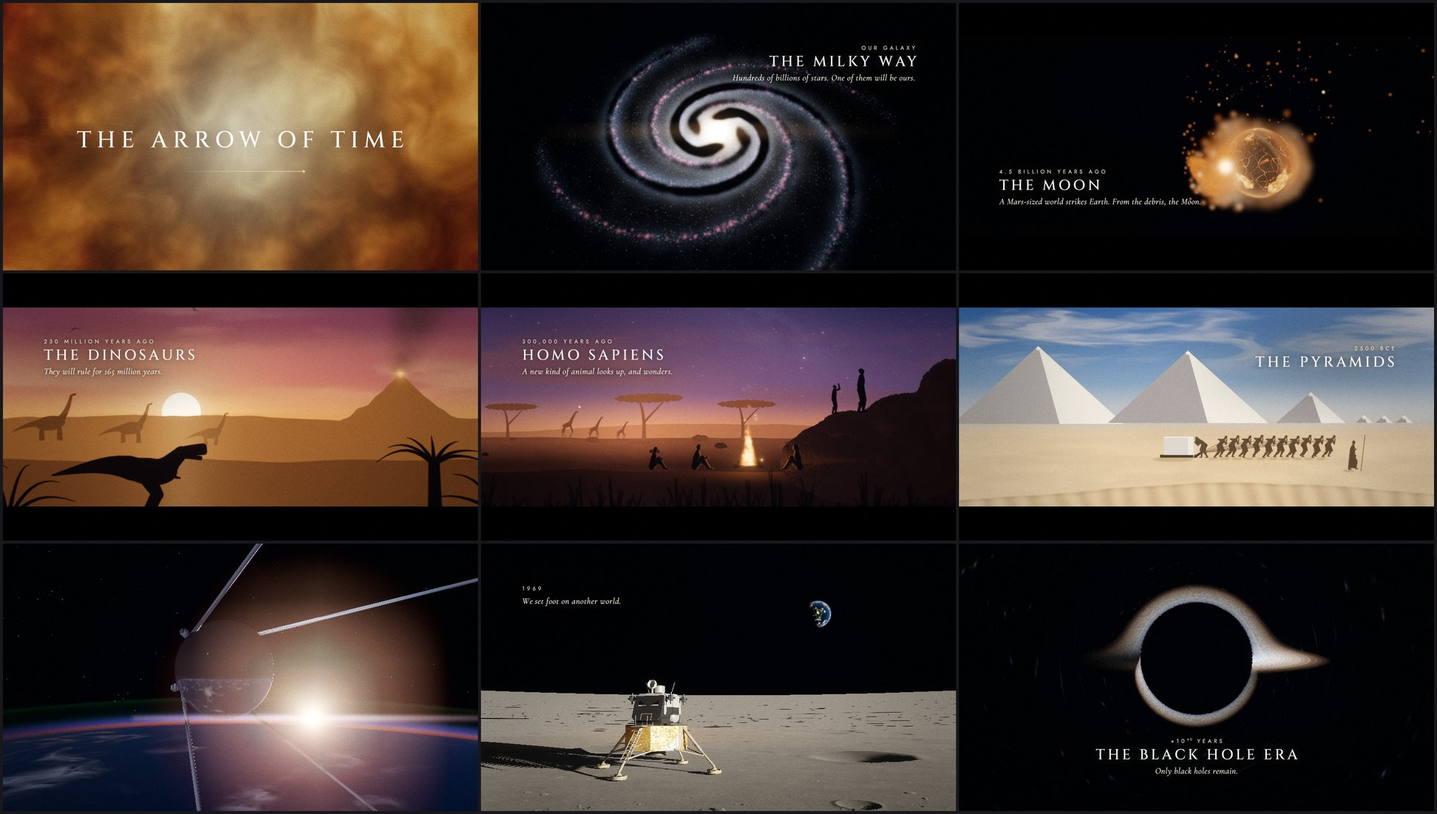
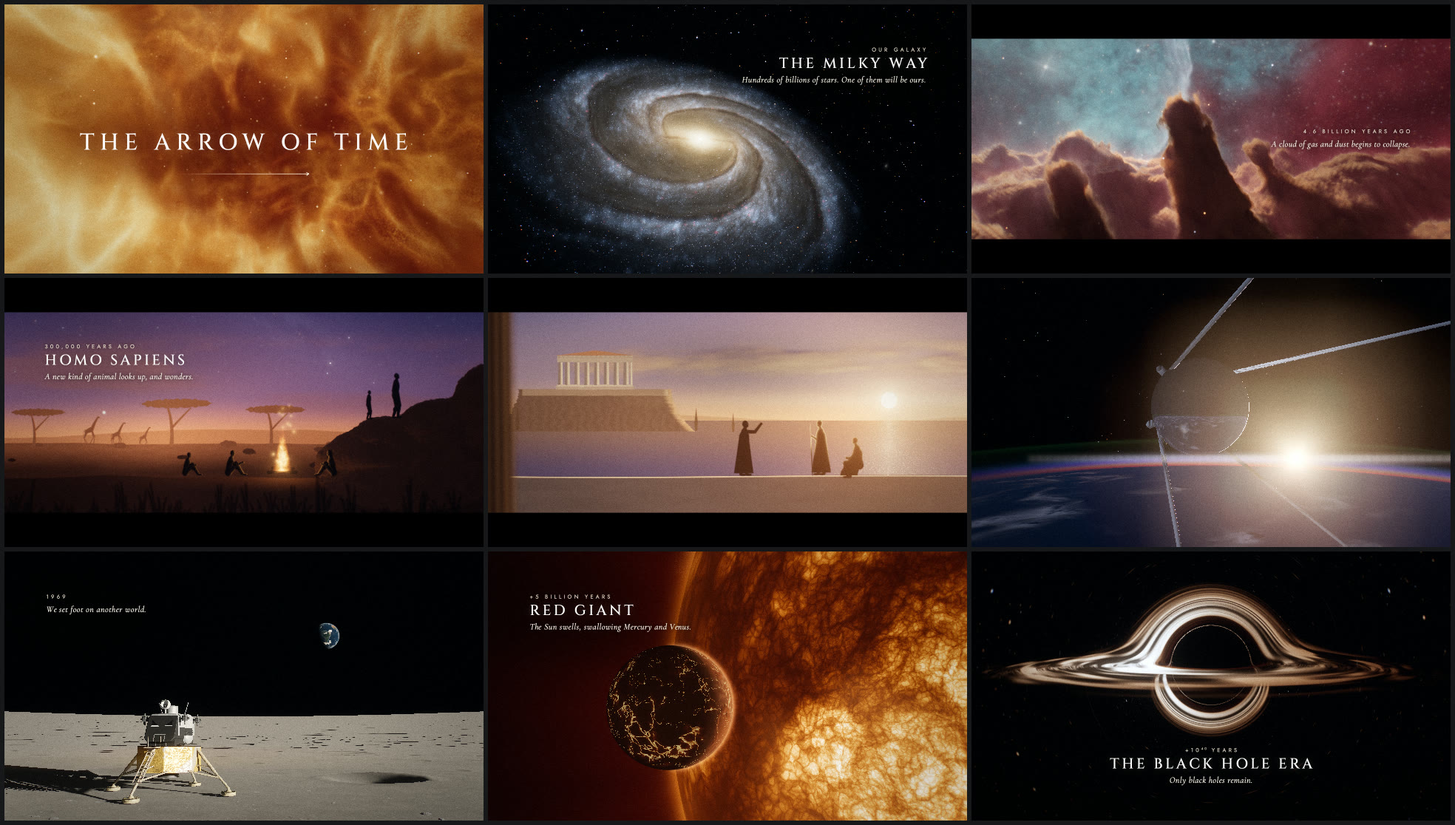
Docs for the second pass: making-of, changelog, guides, new README frames
The making-of describes every reworked scene; the changelog's Unreleased
section lists the pass; the engine and film guides cover halation, grain
size, the volumetric Galaxy, noiseVolume, Streaks and per-act looks;
AGENTS.md gains the new conventions and six pitfalls; docs/frames.jpg is a
fresh montage from the new picture.

diff --git a/docs/making-of.md b/docs/making-of.md
@@ -24,8 +24,8 @@ timeline.json ──► project.ts ──► shots (GLSL, sprites, ray marching)
 ```
 
 Each shot is a span of time and a function that draws linear, HDR light into the frame; shots
-overlap to dissolve. The post chain adds bloom, anamorphic streaks, light shafts, tonemapping,
-grading, grain and the letterbox, all animated over the film by `project.ts`. Captions are drawn
+overlap to dissolve. The post chain adds bloom, halation, anamorphic streaks, light shafts,
+tonemapping, grading, film grain and the letterbox, all animated over the film by `project.ts`. Captions are drawn
 last, from a sub-pixel glyph cache, in each shot's negative space. The score reads the same
 timeline, so a hit in the picture and in the music is the same number. The engine behind all this
 is described in [The engine](engine.md).
@@ -37,14 +37,42 @@ skies lit by one clear source. The space race is photographic 3D, built for scal
 
 ## Scene by scene
 
-- **Big Bang, inflation, first light**: domain-warped fbm plasma with a fire colour ramp, a
-  log-scale infinite zoom with radially streaking quantum fluctuations, a bokeh particle field,
-  and a Planck-style CMB sphere with photons "breaking free".
-- **Cosmic web**: a 112³ periodic Voronoi density volume (filaments where three cells meet),
-  ray-marched at half resolution, with sprite stars and galaxies placed on its nodes.
-- **Milky Way**: about 170k sprites (sparkle stars, a smooth glow layer, HII knots, a bulge)
-  following a barred four-arm logarithmic spiral with 19° pitch, with absorbing dust lanes and
-  differential rotation.
+- **Prologue** (`film/shots/universe.ts`): dust too faint to see, 170,000 motes of it, lit by a
+  shell of light that each tick of the clock sends out through it, so the dark glitters in
+  expanding rings round the three opening lines. Through the riser the cloud collapses as a
+  uniform sphere does, every mote arriving at once, and a lone point holds for the hush before
+  the bang.
+- **Big Bang, inflation, the first elements, first light**: one continuous medium, a ray-marched
+  flight through a baked, tiling noise volume (`film/shaders/universe-plasma.glsl`), so the
+  dissolves between the four shots are invisible. The bang is seen from inside: volumetric fire
+  rushing past at 40 units a second, slowing as the expansion does, with embers drawn as the
+  streaks they cover in each exposure. In inflation the same flight runs away exponentially and
+  stretches the plasma into streams. Protons and neutrons are glowing spheres under a shallow
+  lens; fours fall together into helium with a flash. At first light the fog brightens, thins to
+  nothing, and leaves a finely mottled afterglow that reddens into the dark.
+- **Cosmic web and the first galaxies** (`film/shots/dawn.ts`): a 112³ periodic Voronoi density
+  volume (filaments where three cells meet), ray-marched at half resolution, with sprite stars and
+  small galaxies (spheroids, clumpy irregulars, soft disks) placed on its nodes. The flight
+  through it ends at one galaxy, drawn by the same volumetric renderer as the Milky Way: it first
+  shows as a blue, clumpy disk and grows its bulge, old stars and dust as the camera nears.
+- **Milky Way** (`engine/components/galaxy.ts`): a barred spiral rendered as a volume. Its
+  face-on structure (old stars, young stars, dust, H-II regions) is baked once into a map and
+  ray-marched as a thin disk, so dust lanes darken only what lies behind them, with pink H-II
+  knots along the arms' inner edges, an analytic bulge and nucleus, and 150,000 resolved stars on
+  top, each dimmed by the dust in front of it. One camera carries across the dissolve from the
+  cosmic web: it lands low over the disk as the theme arrives, then rises to a three-quarter
+  view as the frame opens.
+- **The solar nebula** (`film/shaders/nebula-cloud.glsl`): the cloud is a volume, a distance
+  field of dust displaced by tiling 3D noise and marched with shadows towards a star cluster
+  behind it, so the dust facing us is dark and its edges glow, as in the Eagle and Carina
+  nebulae. Gas is teal near the stars and rose further out. A nearby star flares into a
+  supernova; its blast wave is a shell that lights the gas it crosses and lags in dense dust,
+  and the head of the tallest pillar contracts around an ember.
+- **The Sun is born** (`film/shaders/sun-disk.glsl`): the ember becomes the protostar at the
+  centre of a disk of dust in hydrostatic balance, flared, with a puffed inner rim. A table of
+  optical depth from the star lets the rim and each ringlet shade what lies behind. Light sweeps
+  outward at ignition; gaps deepen as worlds sweep them, each trailing a spiral wake, under a
+  bipolar jet.
 - **The Moon-forming impact** (`film/shots/moon.ts`): a real smoothed-particle hydrodynamics
   simulation, not an animation. Theia (0.13 Earth masses) strikes the proto-Earth at 45° and the
   mutual escape speed, run with SWIFT on 61,139 particles for the first day after contact
@@ -57,17 +85,33 @@ skies lit by one clear source. The space race is photographic 3D, built for scal
   later, and a long arm breaks into clumps and a disk. The same camera carries on through a
   dissolve to years later, the molten Earth and the newborn Moon, which recedes as the oceans
   form.
-- **Planets**: one shader for every era. Voronoi lava cracks, procedural oceans and ice lines,
-  real present-day Earth from Natural Earth maps (bathymetry shelves, deserts, city lights from
-  populated places and roads), clouds, atmospheric rim and twilight, impact dust and fires,
-  Mars terraforming, the Moon.
-- **Life and humanity**: binary fission of a rod-shaped microbe (textures in material
-  coordinates that each daughter carries away); animated signed-distance silhouettes
-  (Anomalocaris, trilobites, jellyfish, Tiktaalik, sauropods, T. rex, pterosaurs, mammals,
-  people) over painted-light skies; underwater god rays and caustics; the first people at dusk
-  on the savanna (`film/shaders/humans.glsl`), a band round a fire on a granite kopje while giraffes
-  cross under the acacias and a meteor, drawn as the streak it covers in each exposure so it
-  never strobes, crosses the first stars; a bump-mapped cave wall lit by a moving torch.
+- **Planets** (`engine/components/planet.ts`): one shader for every era. The magma ocean's
+  rifts follow the zero lines of smooth noise fields, so they meander, branch and gape into pools
+  like fractures rather than forming a net of cells; the Snowball's ice carries the same kind of
+  long curving leads, as Europa does. Clouds are weather: the noise they are read from is wound
+  round storm centres in the mid-latitudes into spiral bands and fronts, thinned by climate zones
+  (a cloudy equator, clear subtropics), eroded into cells at their edges, lit from the Sun's side
+  and made to shade the ground beyond, with shadows that stretch towards the terminator. The air
+  is a thin scattering shell in closed form: its optical depth per colour tints the disc by day,
+  deepens to a bright limb, and is what the low Sun loses, so blue air gives orange terminators
+  and Mars's dust gives blue ones. Water takes a wide, wind-roughened glint that climbs with the
+  Fresnel reflection towards the limb; land takes relief shading from its height field. Under
+  that, real present-day Earth from Natural Earth maps (bathymetry shelves, deserts, city lights
+  from populated places and roads), impact dust and fires, a blast wave that tears the cloud
+  deck away, Mars and its terraforming, the Moon.
+- **Life and humanity**: a field of black smokers on the floor of the first ocean
+  (`film/shaders/vent.glsl`), craggy spires pouring smoke that the glow of their own mouths lights
+  from below; binary fission of a rod-shaped microbe (textures in material coordinates that each
+  daughter carries away); animated signed-distance silhouettes (Anomalocaris, trilobites,
+  jellyfish, Tiktaalik, sauropods, T. rex, pterosaurs, mammals, people) over painted-light skies;
+  underwater god rays and caustics; the first clear dawn after the impact winter
+  (`film/shaders/mammals.glsl`), the Sun coming up through the mist of a dead forest with a new
+  one growing under it, birds crossing the light, and a small mammal watching from a fallen trunk
+  with the Sun rimming its fur; the first people at dusk on the savanna
+  (`film/shaders/humans.glsl`), a band round a fire on a granite kopje while giraffes cross under
+  the acacias and a meteor, drawn as the streak it covers in each exposure so it never strobes,
+  crosses the first stars; a bump-mapped cave wall lit by a moving torch. Today's Earth at night
+  carries its air routes as hairline great-circle threads with aircraft running along them.
 - **Civilization** (`film/shots/civilization.ts`, `film/shaders/civ-*.glsl`): twelve thousand years
   painted as a single day in the film's silhouette style, one tracking shot through ten
   tableaux, each with its own parallax layers and figures posed from joints (the engine's
@@ -90,7 +134,9 @@ skies lit by one clear source. The space race is photographic 3D, built for scal
   `Atmosphere`, its fire glowing inside the cloud), climbs across the face of the gibbous Moon on a
   long lens (the Moon really was ten days old that night), and at 45 km, in slow motion, its four
   boosters peel away in the "Korolev cross" over the curve of the Earth. In orbit over the night
-  side (the real maps, moonlit cloud, the thin green airglow over the limb) the fairing splits,
+  side (the real maps, moonlit cloud, the thin green airglow over the limb) the fairing splits
+  (the stage and fairing are painted sheet metal in rings and gores, with rivet rows, soot streaks
+  and frost where the oxygen tank chills the skin),
   Sputnik springs off with its antennas swinging out, and the camera eases round behind it in one
   slow arc as the Sun breaks over the limb through a dawn arc of red and blue that comes out of
   single scattering; through the glare the film dissolves to the other side, where the polished
@@ -103,12 +149,32 @@ skies lit by one clear source. The space race is photographic 3D, built for scal
   radio (NASA's recording of the air-to-ground loop, Houston's Quindar tone and all); then, as a
   piano takes up the theme, the camera drifts round and looks up to the real Earth in the black sky,
   gibbous as it was that day, and closes in on it as it dissolves into the Earth of today.
-- **The far future**: a boiling red giant engulfing the inner planets, a ray-marched ring
-  nebula, a restricted N-body galaxy merger (36k test particles, two cores with dynamical
-  friction), and a Schwarzschild lensing ray tracer for the black hole and its accretion disk.
-- **The end**: the last stars go out one by one, the black holes evaporate in a final flash, and
-  an epilogue over the stars comes back to the beginning: "That moment is now." The closing credits
-  follow in silence.
+- **The far future** (`film/shots/future.ts`): a watch-face dial whose hand rebounds on each
+  tick; the Big Dipper moving on its Hipparcos proper motions over today's dotted shape, while
+  16,000 field stars trail the last third of their journey; the oceans boiling away. The red
+  giant (`film/shaders/giant.glsl`) is traced in AU as granules within granules, from a handful
+  of giant convection cells down to granulation only the close view resolves, with strong,
+  reddening limb darkening; its atmosphere is integrated along each ray with absorption, so
+  plumes glow at the limb and stay faint against the disc. Mercury and Venus are swallowed when
+  the surface reaches their orbits, and the Earth is left a black disc veined with the glow of
+  its melting crust, ringed by the last of its air. The planetary nebula
+  (`film/shaders/pneb.glsl`) is a volume modelled on the Ring and the Helix, coloured by
+  ionisation (He II blue, O III green, H-alpha red), with cometary knots and thin older shells
+  traced analytically, brightest where the ray grazes them; the white dwarf is a sub-pixel point
+  with a diffraction cross.
+- **The end** (`film/shots/end.ts`): the Milky Way and Andromeda as two disks of 74,000 test
+  particles falling together around softened cores on a decaying orbit, both spinning with the
+  orbit, which throws the tidal tails, and a starburst where the cores meet. The last stars are
+  red and white dwarf embers that die on the score's bells. The black hole
+  (`film/shaders/blackhole-trace.glsl`) is a Schwarzschild geodesic tracer: every ray is a null
+  geodesic, integrated with RK4 in its own orbital plane (the Binet equation) with exact disk
+  crossings, so the far side of the disk arches over the shadow and its underside shows below,
+  inside a photon ring; the disk's light is shifted by its orbital speed and the hole's gravity.
+  The disk drains and cools, the hole shrinks as it evaporates while its Hawking glow runs from
+  red to blue-white, and it ends in a point and an expanding shell of light whose photons thin to
+  black. The epilogue comes back to the film's "Now", modelled on Voyager 1's 1990 frame: a fan
+  of sunlight scattered in the camera, and in its brightest ray a pale blue dot about a pixel
+  wide. "That moment is now." The closing credits follow in silence.
 
 ## Science notes
 

diff --git a/AGENTS.md b/AGENTS.md
@@ -7,8 +7,9 @@ that look for that name.)
 
 ## Layout
 
-- `film/`: the film. `timeline.json` (script, captions, cues) + `project.ts` + `shots/` +
-  `shaders/` + `text.ts` (captions) + `score.py`.
+- `film/`: the film. `timeline.json` (script, captions, cues) + `project.ts` + `shots/` (one file
+  per act: `universe`, `dawn`, `sun`, `moon`, `life`, `human`, `civilization`, `ascent`,
+  `sputnik`, `apollo`, `future`, `end`) + `shaders/` + `text.ts` (captions) + `score.py`.
 - `engine/`: the film engine (TypeScript, browser), kept general. Public API: `@engine`
   (`engine/index.ts`); the runtime loads `film/project.ts`.
 - `audio/studio/`: the Python synthesizer and mastering the score is written with (`audio/README.md`).
@@ -81,10 +82,16 @@ that look for that name.)
   over a `Planet` Earth drawn first (premultiplied alpha).
 - **Components** (`engine/components/`): `Planet` + `loadEarth` render a planet from any era
   (molten, ocean, snowball, real present-day Earth, city lights, Mars, the Moon; every knob is
-  documented on `PlanetParams`; `opacity` fades one out). Colliding or overlapping planets need `depthTest: true`;
+  documented on `PlanetParams`; `opacity` fades one out). Its clouds are weather (noise wound
+  round storm centres, climate zones, shadows on the ground), and its air is a scattering shell:
+  `atmoColor * atmo` is the optical depth per colour, which tints the day side, brightens the
+  limb and sets the colour of the terminator (blue air gives orange sunsets). `shock` is a blast
+  wave through the cloud deck; `relief` shades land from its height field. Colliding or overlapping planets need `depthTest: true`;
   `impacts` scars scale with the length of their vector (1 = crater, ~10 = planet-scale), and
-  `planetLocal()` converts a world direction for them. `Galaxy` (or raw `galaxyData`) is a
-  rotating sprite spiral. `Atmosphere` (with `#include <atmosphere>`) is a physically based sky
+  `planetLocal()` converts a world direction for them. `Galaxy` is a barred spiral rendered as a
+  volume: a face-on map baked once and ray-marched as a thin disk with reddening dust, an
+  analytic bulge, and star sprites from the same map. `noiseVolume` bakes a tiling 3D noise
+  texture for ray-marched volumes (one fetch per step instead of several noise octaves). `Atmosphere` (with `#include <atmosphere>`) is a physically based sky
   and limb from single scattering: `...atmo.uniforms(c)` bakes its transmittance table on first
   use; `atmoSegment` integrates a stretch of ray (composite the air in front of a cloud layer,
   then behind it), `atmoLight` gives sunlight's colour at a point (red near the horizon, zero in
@@ -107,6 +114,11 @@ that look for that name.)
   `{ sky: true }`. The `animate`/`shade` GLSL hooks run per sprite and per fragment.
 - **Uniforms** are typed by reflection (`Program.set`). Arrays: pass flat JS arrays. Unknown
   names are ignored silently, so a misspelt uniform just does nothing.
+- **Looks per act.** `project.ts` holds the film's look (grade, grain, halation, letterbox,
+  flashes, shake). A shot file that needs its own bloom, streaks, exposure or light shafts for
+  its beats exports a function (`universeLook`, `dawnLook`, `sunLook`, `mammalsLook`,
+  `futureLook`, `endLook`) that returns overrides there and `{}` elsewhere; `project.ts` merges
+  them last.
 - **CI** (`.github/workflows/ci.yml`) typechecks everything, compiles the Python, synthesizes
   the whole score and checks its hits and cuts against the timeline (`audio/analyze.py`). Keep
   `npm run typecheck` clean, and when a cue moves, keep the onsets CI checks in step.
@@ -170,6 +182,19 @@ that look for that name.)
   slopes; derive them from a smooth measure over a wide range.
 - Chromatic aberration fringes thousands of tiny bright lights red and blue (city lights read
   pink): keep `aberration` low in those shots.
+- Cracks drawn along the edges of a cell (Voronoi) pattern read as a net of polygons, a football.
+  Draw fractures, lava rifts and leads in ice along the zero lines of smooth noise fields
+  (`abs(gfbm(p))` near 0): they meander, branch, and widen into pools where the field is flat.
+- Cross-fading two air or haze colours (an orange smog into a blue sky) passes through grey. Thin
+  the first out before the second builds.
+- A noise field wound round a centre (a cyclone) rings like a target at the eye if it is wound
+  tighter than the noise can show: cap the turn at the centre.
+- Light shafts (`rays`) fed by a large bright sky wash the whole frame out. Raise
+  `raysThreshold` until only the sun's disc feeds them.
+- A silhouette made from one profile mirrored about its axis (a chimney, a trunk) reads as turned
+  on a lathe. Give each flank its own noise.
+- A glow drawn as a bright point with a halo on top of a spire reads as a candle flame. Lay an
+  ember across the lip instead and put the light into the smoke above it.
 - Soft shadows of curved surfaces (a rocket's tank, a fairing) come out terraced with the
   simple estimate `min(k * h / t)`; use the closest approach between successive steps (the
   improved soft shadow in `orbit.glsl` and `moonlanding.glsl`).
@@ -233,8 +258,9 @@ over the image, letterbox framing, and transitions between shots.
 
 ## Rendering
 
-- `npm run render -- --preset draft`: half resolution, no motion blur (about 16 min for the 6:12
-  film at 720p with motion blur on a Mac's GPU; hours on a 4-core CPU).
+- `npm run render -- --preset draft`: half resolution, no motion blur unless `--mb 1` (the 6:12
+  film at 540p with motion blur and `--workers 2` takes about 7 min on a Mac's GPU, 19 ms of GPU
+  time per frame; hours on a 4-core CPU).
 - `npm run render`: final 1080p, x264 CRF 17 `slow`, Rec.709, AAC 320k. Outputs
   `out/renders/the-arrow-of-time-final-<stamp>.mp4` and `...-final-latest.mp4`. The v1.0 master
   (6:12) took 31 min with `--workers 2` on a Mac's GPU (`MOVIES_BROWSER=chrome`) and is 1.6 GB,

diff --git a/CHANGELOG.md b/CHANGELOG.md
@@ -8,12 +8,57 @@ here becomes the release notes. The working cuts before it (v0.1 to v0.4) are re
 
 ## [Unreleased]
 
+A second pass over the picture, shot by shot, for cinematic quality. The cut, the captions, the
+timing and the score are unchanged: every beat and cue is where it was.
+
+### The film
+
+- **The opening** is new. Each tick of the clock sends a shell of light through a field of dust
+  too faint to see, so the dark glitters in expanding rings; through the riser everything falls
+  into a single point. The Big Bang, inflation, the first elements and first light are now one
+  continuous flight through volumetric fire.
+- **The Milky Way** is a volumetric barred spiral with real dust lanes, a warm bulge, H-II knots
+  and 150,000 resolved stars, reached by one camera move out of the cosmic web, whose small
+  galaxies are redrawn too.
+- **The solar nebula** is a volume of sculpted, backlit dust pillars crossed by the supernova's
+  blast wave; **the Sun's birth** a flared, self-shadowing disk with gaps, wakes and a jet.
+- **Every planet** is redrawn: weather-system clouds that shade the ground, a scattering
+  atmosphere with coloured terminators, a wind-roughened ocean glint, relief on land, a magma
+  ocean whose rifts meander like fractures, and a Snowball with long leads in its ice.
+- **Life** opens on a field of black smokers lit by their own glow. **The age of mammals** is a
+  new painted dawn: the Sun rising through the mist of a dead forest, a small mammal on a fallen
+  trunk. The asteroid's blast wave tears the cloud deck away under a finer rain of re-entering
+  ejecta, and the Moon-forming impact's spray is white-hot beads.
+- **The space race**: the R-7's stage and fairing are painted, riveted sheet metal with frost and
+  soot. **Earth at night** carries hairline air routes with aircraft on them. **Now** and the
+  epilogue share a sunbeam modelled on Voyager 1's frame.
+- **The far future**: a watch-face dial, star trails behind the drifting Dipper, a red giant
+  with real convection, limb darkening and an atmosphere that swallows Mercury and Venus, a
+  scorched Earth ringed by its last air, and a planetary nebula coloured by ionisation.
+- **The end**: a tidal merger of two luminous spirals, the last stars as dying embers, and a
+  black hole from a Schwarzschild geodesic tracer (lensed disk, photon ring, Doppler and
+  gravitational shift) that drains, evaporates and ends in an expanding shell of light.
+- **The look**: halation round highlights, and film grain in clumps a little larger than a pixel
+  instead of per-pixel noise (which also makes the master far cheaper to encode).
+
+### The engine
+
+- `Planet`: clouds, air, glint, relief, lava and ice rebuilt; new `shock`, `relief`,
+  `atmoHeight` and `cloudZones` parameters.
+- `Galaxy` is volumetric (a baked face-on map marched as a thin disk); `galaxyData`,
+  `GALAXY_SPIN` and `ABSORBER_SHADE` are gone.
+- New `noiseVolume` (a tiling 3D noise texture for ray-marched volumes) and `Streaks` (points
+  drawn as their shutter path).
+- `Look` gains `halation`, `halationThreshold`, `halationTint` and `grainSize`.
+
 ### The repository
 
 - `AGENTS.md` holds the conventions and pitfalls, for people and coding agents alike; `CLAUDE.md`
   is a symlink to it, for agents that look for that name.
 - The *Render on Modal* workflow runs only when the repository's owner starts it.
 - A Buy Me a Coffee link (`.github/FUNDING.yml` and the README).
+- The far future is two shot files, `future.ts` and `end.ts`, and each act's shot file can export
+  a look function for its own beats, merged last in `project.ts`.
 
 ## [v1.0] - 2026-09-28
 

diff --git a/docs/engine.md b/docs/engine.md
@@ -9,7 +9,7 @@ lives in `film/`.
 for each frame:
   active shots ──► each renders HDR, linear light into its target ──► dissolves composited
               ──► motion blur (optional sub-frame accumulation)
-              ──► post: bloom, streaks, tonemap, grade, grain, vignette, letterbox, flash, shake
+              ──► post: bloom, halation, streaks, tonemap, grade, grain, vignette, letterbox, flash, shake
               ──► captions composited from the glyph cache ──► canvas
 ```
 
@@ -138,8 +138,14 @@ and never flicker. `starSphere(rng, options)` makes a sky; draw it with `{ sky: 
   impact scars scale with the length of their vector (1 is a crater, about 10 a planet-scale
   wound), and `planetLocal()` converts a world direction into the planet's frame. `opacity` fades
   the whole planet (a body dissolving into a particle simulation of itself, for example).
-- **`Galaxy`** (or raw `galaxyData`) is a rotating barred spiral made of sprites: stars, a glow
-  layer and dust lanes.
+- **`Galaxy`** is a barred spiral rendered as a volume: its face-on structure (old and young
+  stars, dust, H-II regions) is baked once into a map (`galaxy-map` chunk) and ray-marched as a
+  thin disk with reddening dust (`galaxy` chunk), with an analytic bulge and star sprites drawn
+  from the same map on top.
+- **`noiseVolume`** (`engine/components/noise-volume.ts`) bakes a tiling 3D noise texture, so a
+  ray-marched volume pays one fetch per step instead of several octaves of hashed noise.
+- **`Streaks`** (`engine/components/streaks.ts`) draws fast points as the path they cover while
+  the shutter is open: motion blur for a particle field in one sample instead of eight.
 - <a id="atmosphere"></a>**`Atmosphere`** (`engine/components/atmosphere.ts` with the
   `atmosphere` chunk) is a planet's air from single scattering: Rayleigh and Mie scattering,
   ozone absorption and the planet's shadow, with the transmittance to space baked once into a
@@ -158,10 +164,11 @@ where the next scene (or someone else's film) can use it.
 
 ## Post-processing
 
-The post chain turns the HDR frame into the picture: 13-tap bloom with Karis averaging, anamorphic
-streaks, light shafts (`rays`: the bright parts of the frame smeared towards `raysCenter`, so a low
-sun streams between silhouettes), ACES or AgX tonemapping, lift/gamma/gain grading, saturation and contrast, grain,
-vignette, chromatic aberration, a letterbox that animates between 16:9 and 2.39:1, fades, flashes
+The post chain turns the HDR frame into the picture: 13-tap bloom with Karis averaging, halation
+(`halation`: the soft red-orange fringe film shows round highlights), anamorphic streaks, light shafts (`rays`: the bright parts of the frame smeared towards `raysCenter`, so a low
+sun streams between silhouettes), ACES or AgX tonemapping, lift/gamma/gain grading, saturation and contrast, grain (`grainSize`
+sets the size of its clumps: 1 is per-pixel noise, about 1.6 reads as film and costs the encoder
+far less), vignette, chromatic aberration, a letterbox that animates between 16:9 and 2.39:1, fades, flashes
 and camera shake. Everything is animated through `project.look(t)` (see `Look` in
 `engine/core/types.ts`). NaNs are zeroed so they cannot bloom into black holes, but the pixel is
 still wrong: guard `pow()` and `exp()`.

diff --git a/README.md b/README.md
@@ -27,11 +27,11 @@ history, stops dead at **Now**, then resumes and slows as the stars die, until i
 
 | Time | Chapter | |
 | --- | --- | --- |
-| 0:00 | Prologue | "Everything that has ever happened…", a single point of light gathering energy |
+| 0:00 | Prologue | "Everything that has ever happened…": each tick of the clock sends a ring of light through the dark, until everything falls into a single point |
 | 0:20 | The Universe | the Big Bang, inflation, the first elements, first light |
 | 0:50 | Cosmic Dawn | the dark ages, the first stars, galaxies, the Milky Way |
 | 1:20 | The Sun and Earth | a collapsing nebula, the young Sun, a molten Earth, the impact that makes the Moon, the first oceans |
-| 2:00 | Life | the first cells, the Great Oxidation, Snowball Earth, the Cambrian seas, onto land, the dinosaurs, the asteroid |
+| 2:00 | Life | hydrothermal vents and the first cells, the Great Oxidation, Snowball Earth, the Cambrian seas, onto land, the dinosaurs, the asteroid |
 | 2:46 | Humanity | mammals at dawn, the first people at dusk on the savanna, hand stencils in a cave |
 | 3:06 | Civilization | twelve thousand years as one day: the first harvest, Uruk, cuneiform, Giza, Athens, Gutenberg's press, the railway, the Wright Flyer, Trinity |
 | 3:31 | The Space Race | the R-7 lifting Sputnik through the clouds into an orbital sunrise; Apollo 11 on the Sea of Tranquility, and Armstrong's own voice; the Earth at night |
@@ -42,8 +42,8 @@ history, stops dead at **Now**, then resumes and slows as the stars die, until i
 
 ## How it was made
 
-- **Everything is code.** No footage, stock or samples: ray marching, particle sprites and painted
-  silhouettes make every frame, and a small synthesizer makes every sound. The one recording is
+- **Everything is code.** No footage, stock or samples: ray-marched volumes, a geodesic ray tracer
+  for the black hole, particle sprites and painted silhouettes make every frame, and a small synthesizer makes every sound. The one recording is
   NASA's own, of Neil Armstrong calling Houston from Tranquility Base.
 - **Real science and history where it counts.** The Moon forms in a smoothed-particle
   hydrodynamics simulation run for the film (SWIFT, 61,139 particles). Today's Earth comes from
@@ -56,8 +56,8 @@ history, stops dead at **Now**, then resumes and slows as the stars die, until i
 - **A score you can check without listening.** Organ, strings, piano, synth brass, bells, choir
   and drums with convolution reverb, mastered to -14 LUFS. CI renders it on every push and checks
   its hits and cuts against the timeline.
-- **Cinematic post.** HDR rendering, bloom, anamorphic streaks, light shafts, ACES tonemapping,
-  grading, grain, motion blur, and a 2.39:1 letterbox that opens to full frame for the biggest
+- **Cinematic post.** HDR rendering, bloom, halation, anamorphic streaks, light shafts, ACES
+  tonemapping, grading, film grain, motion blur, and a 2.39:1 letterbox that opens to full frame for the biggest
   moments.
 - **Renders anywhere.** Headless Chromium on a GPU, Mesa llvmpipe on a plain CPU, or dozens of
   containers at once [on Modal](docs/modal.md) for minutes and about a dollar.

diff --git a/docs/working-on-the-film.md b/docs/working-on-the-film.md
@@ -95,10 +95,13 @@ typography on its own with `npm run still -- --t 10 --textonly`.
 ## 4. The look
 
 `look(t)` in [`project.ts`](../film/project.ts) returns the post-processing settings for any
-moment: `exposure`, `bloom`, `streak` (anamorphic), light shafts (`rays`), `tonemap` (`aces` or
-`agx`), grading (`lift`, `gamma`, `gain`, `saturation`, `contrast`), `grain`, `vignette`,
+moment: `exposure`, `bloom`, `halation`, `streak` (anamorphic), light shafts (`rays`), `tonemap`
+(`aces` or `agx`), grading (`lift`, `gamma`, `gain`, `saturation`, `contrast`), `grain` and
+`grainSize`, `vignette`,
 `aberration`, `letterbox`, `fade`, `flash`, `shake`, and a `scrim` that darkens the picture softly
-behind captions. Animate them with `keys()`, keyed to cues from the timeline.
+behind captions. Animate them with `keys()`, keyed to cues from the timeline. A shot file can
+ask for its own look during its beats by exporting a function such as `dawnLook(time)` (bloom,
+streaks, light shafts from its sun...), which `project.ts` merges last.
 
 Prefer an exposure kick plus light from the scene itself to a white `flash`: over a dark frame a
 flash reads as a grey veil.
